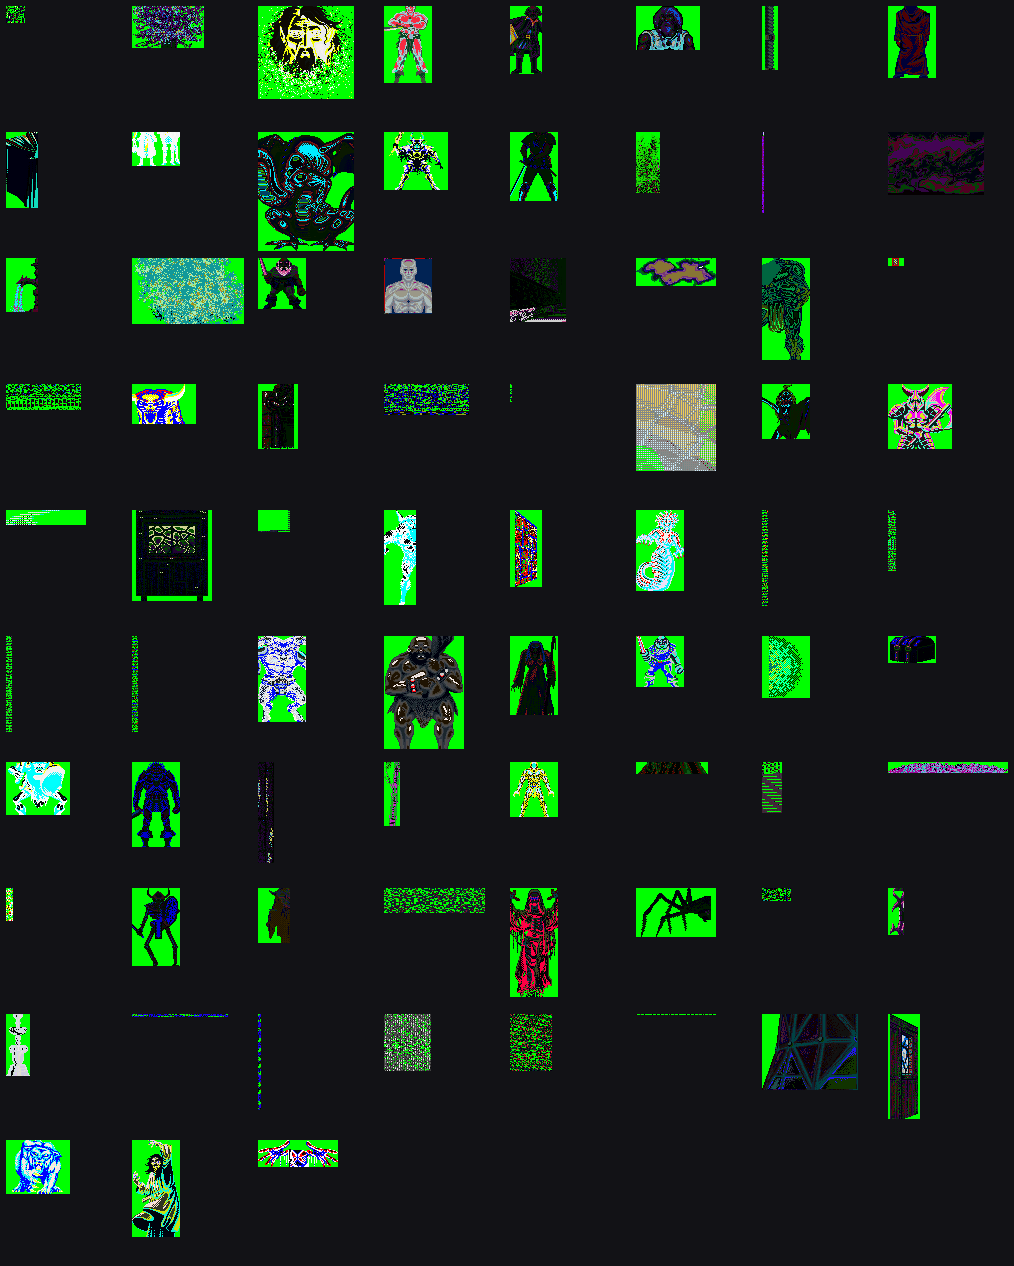
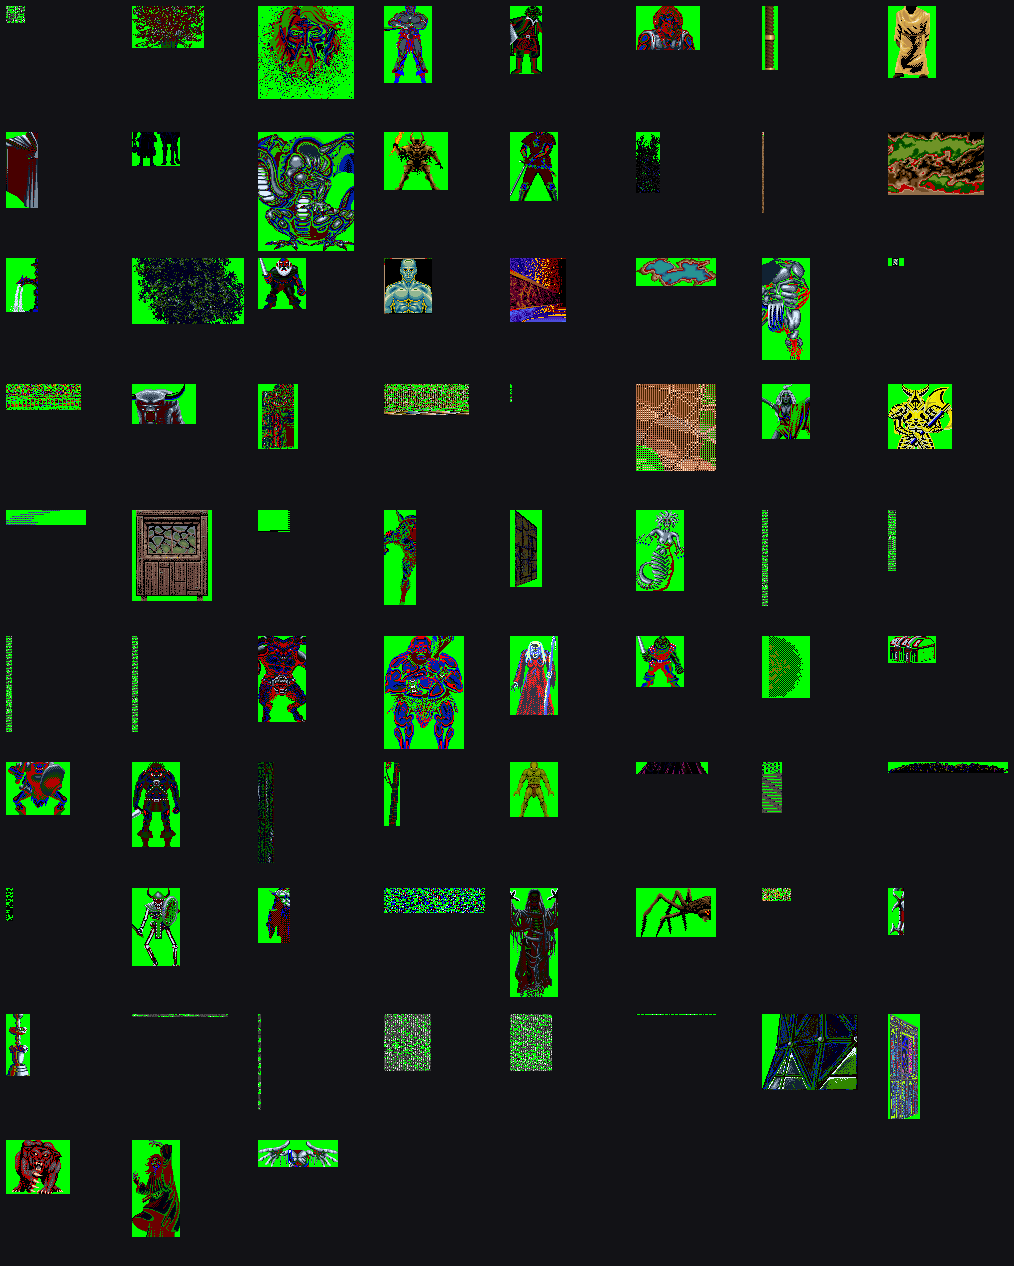
T11m: the DAC is 16 sub-palettes of 16, and word 0 selects the group
Dumped in-game, the palette has 227 non-zero entries laid out as 16 groups of
16, every group from 1 up starting white then black (group 0 starts black
because index 0 is transparent). So a 4bpp index resolves as

    vga_index = (word0 >> 8) * 16 + nibble

which explains header word 0, the last unexplained field: the values read live
were 0x0012, 0x0017, 0x0310, 0x070f, 0x0b00, 0x0c14, 0x0e10 -- a group index in
the high byte. Rendering everything as group 0 is what left the shapes right
and the colours wrong.

The 768-byte palette is in the asset, 8-bit RGB. Searching every decoded asset
for the in-game DAC gives exact hits: fond.io @ 12108 and geren.io @ 6684,
768/768 bytes each. The old detector had picked 204 for fond.io -- it scored
blocks by distinct-triple count, which a window of picture wins easily. It now
keys on the white/black group boundary, validated against three independently
established offsets.

Two encodings caused a detour: the game writes the DAC with a 6-bit >> 2, but
Spice86 reports it scaled back to 8 bits, so its values compare directly
against the file's bytes rather than shifted.

Not yet at the acceptance bar: the pixel-by-pixel framebuffer check found only
one weak hit (32/40 opaque pixels of a 16x4 sprite) because the game had
returned to the launcher and the blitter stopped firing. T11m stays [~].

- tools/ioscan.py        structural palette detector + group base
- tools/t11m-palette.py  nibble/framebuffer pairing (failed twice, kept)
[…]

diff --git a/tools/ioscan.py b/tools/ioscan.py
@@ -75,26 +75,62 @@ def extract(data):
     return walk(data, starts[0])
 
 
-def find_palette(data, taken):
-    """256 8-bit RGB triples (FORMATS.md 3.9), outside the sprite data."""
-    cand = None
-    for off in range(0, len(data) - 768, 2):
-        if data[off] or data[off + 1] or data[off + 2]:
+def palette_score(data, off):
+    """A VGA palette here is 16 sub-palettes of 16, and groups 1..15 each start
+    with white then black. That signature is what makes this a detector rather
+    than a guess: it was validated against three offsets established
+    independently -- fond.io 12108 and geren.io 6684 (both matched the live DAC
+    byte for byte while that scene was on screen) and logo.io 992 (FORMATS 3.9)."""
+    s = 0
+    for k in range(1, 16):
+        b = off + k * 48
+        if data[b] > 250 and data[b + 1] > 250 and data[b + 2] > 250:
+            s += 1
+        if data[b + 3] < 6 and data[b + 4] < 6 and data[b + 5] < 6:
+            s += 1
+    return s
+
+
+def find_palette(data, chain_end=0):
+    """Files carry more than one palette -- fond.io has a valid block at 556 and
+    another at 12108, and the live one was 12108. The one in use sits just past
+    the sprite chain, so prefer that and fall back to the best-scoring block."""
+    # The signature repeats every 48 bytes, so a block shifted by whole groups
+    # scores just as well -- fond.io came back 48 early and geren.io 144 early.
+    # Entry 0 of a real palette is black (index 0 is the transparent colour),
+    # while a shifted candidate starts on some group's white, which pins it.
+    cands = []
+    for off in range(0, len(data) - 768):
+        if data[off] > 8 or data[off + 1] > 8 or data[off + 2] > 8:
             continue
-        if any(off < e and s < off + 768 for s, e in taken):
-            continue
-        chunk = data[off:off + 768]
-        n = len({chunk[i:i + 3] for i in range(0, 768, 3)})
-        if cand is None or n > cand[0]:
-            cand = (n, off)
-    if not cand or cand[0] < 24:
-        return None
-    off = cand[1]
+        s = palette_score(data, off)
+        if s >= 24:
+            cands.append((off, s))
+    if not cands:
+        starts = [o for o in range(len(data) - 768)
+                  if data[o] < 8 and data[o + 1] < 8 and data[o + 2] < 8]
+        best = max(starts, key=lambda o: palette_score(data, o), default=None)
+        if best is None or palette_score(data, best) < 8:
+            return None
+        cands = [(best, palette_score(data, best))]
+    # Overlapping candidates 48 or 144 bytes early still satisfy the black-start
+    # rule (geren.io scored one at 6540 as well as the true 6684), and a shifted
+    # candidate is always the earlier one, so take the last.
+    after = [c for c in cands if c[0] >= chain_end]
+    off = (after or cands)[-1][0]
     c = data[off:off + 768]
     return off, [tuple(c[i:i + 3]) for i in range(0, 768, 3)]
 
 
 def render(data, off, w, h, pal):
+    """A 4bpp index is `group * 16 + nibble`. The DAC is 16 sub-palettes of 16
+    (measured in-game: every group starts white, black, then a ramp), and the
+    group is the high byte of header word 0 -- the values seen live were 0x0012,
+    0x0310, 0x0c14, 0x070f, 0x0b00, 0x0e10, which is a group index and a low byte.
+    Rendering with group 0 for everything is what left the shapes right and the
+    colours wrong."""
+    group = struct.unpack_from("<H", data, off)[0] >> 8
+    pbase = (group * 16) if group < 16 else 0
     stride = (w + 1) // 2
     base = off + 8
     rows = []
@@ -103,7 +139,7 @@ def render(data, off, w, h, pal):
         for x in range(w):
             b = data[base + y * stride + (x >> 1)]
             v = (b >> 4) if (x & 1) == 0 else (b & 15)
-            r.append((0, 255, 0) if v == 0 else pal[v])
+            r.append((0, 255, 0) if v == 0 else pal[pbase + v])
         rows.append(r)
     return rows
 
@@ -116,7 +152,8 @@ def do_file(path, outdir):
         return f"{name}: decode failed ({e})"
     sprites = extract(data)
     taken = [(o, o + 8 + ((w + 1) // 2) * h) for o, w, h in sprites]
-    found = find_palette(data, taken)
+    chain_end = taken[-1][1] if taken else 0
+    found = find_palette(data, chain_end)
     pal = found[1] if found else [(i * 16 % 256,) * 3 for i in range(256)]
     os.makedirs(outdir, exist_ok=True)
     for off, w, h in sprites:

diff --git a/tools/t11m-verify.py b/tools/t11m-verify.py
@@ -1,0 +1,70 @@
+#!/usr/bin/env python3
+"""
+T11m acceptance: does the static extraction reproduce the emulator's screen?
+
+Takes sprites extracted offline by tools/ioscan.py, maps each nibble through
+`group*16 + nibble` (group = high byte of header word 0), and looks for that
+exact run of palette indices in the live framebuffer. A hit means the extractor
+predicted the bytes the game put on screen -- not that the picture merely looks
+plausible.
+"""
+import json, os, struct, sys, importlib.util
+
+HERE = os.path.dirname(os.path.dirname(os.path.abspath(__file__)))
+sys.path.insert(0, os.path.join(HERE, "tools"))
+from rsp import Rsp
+
+spec = importlib.util.spec_from_file_location("ioscan", os.path.join(HERE, "tools", "ioscan.py"))
+ioscan = importlib.util.module_from_spec(spec)
+spec.loader.exec_module(ioscan)
+_ns = {}
+exec(open(os.path.join(HERE, "tools", "io.py")).read().split("def main()")[0], _ns)
+decode = _ns["decode"]
+
+GAME = os.path.join(HERE, "ishar_legend_of_the_fortress_DOSGamer.com")
+st = json.load(open(os.path.join(HERE, ".ish", "state.json")))
+g = Rsp(st["gdb"])
+vram = g.read_mem(0xA0000, 320 * 200)
+print(f"framebuffer: {len(vram)} bytes")
+
+for fname in sys.argv[1:] or ["fond.io"]:
+    data = decode(open(os.path.join(GAME, fname), "rb").read())[0]
+    sprites = ioscan.extract(data)
+    end = sprites[-1][0] + 8 + ((sprites[-1][1] + 1) // 2) * sprites[-1][2] if sprites else 0
+    pal = ioscan.find_palette(data, end)
+    print(f"\n{fname}: {len(sprites)} sprites, palette at {pal[0] if pal else None}")
+    for off, w, h in sprites:
+        group = struct.unpack_from("<H", data, off)[0] >> 8
+        base = group * 16 if group < 16 else 0
+        stride = (w + 1) // 2
+        # predicted index for every pixel of the sprite
+        rows = []
+        for y in range(h):
+            rows.append([((data[off + 8 + y * stride + (x >> 1)] >> 4) if (x & 1) == 0
+                          else (data[off + 8 + y * stride + (x >> 1)] & 15)) for x in range(w)])
+        bestscore, bestpos = 0, None
+        for sy in range(0, 200 - h + 1, 2):
+            for sx in range(0, 320 - w + 1, 2):
+                hit = tot = 0
+                for y in range(0, h, max(1, h // 12)):
+                    r = rows[y]
+                    vb = (sy + y) * 320 + sx
+                    for x in range(0, w, max(1, w // 12)):
+                        if r[x] == 0:
+                            continue
+                        tot += 1
+                        if vram[vb + x] == base + r[x]:
+                            hit += 1
+                if tot >= 8 and hit / tot > bestscore:
+                    bestscore, bestpos = hit / tot, (sx, sy)
+        if bestscore > 0.6 and bestpos:
+            sx, sy = bestpos
+            hit = tot = 0
+            for y in range(h):
+                for x in range(w):
+                    if rows[y][x] == 0:
+                        continue
+                    tot += 1
+                    hit += vram[(sy + y) * 320 + sx + x] == base + rows[y][x]
+            print(f"  {w}x{h} group {group:2d} at ({sx},{sy}): "
+                  f"{hit}/{tot} = {100*hit/tot:.1f}% of opaque pixels match the screen")

diff --git a/tools/t11m-palsrc.py b/tools/t11m-palsrc.py
@@ -1,0 +1,58 @@
+#!/usr/bin/env python3
+"""
+T11m: find where the 768 palette bytes are read from, by watching them go out.
+
+Searching the files for a captured DAC failed, which only means the copy in the
+file is not byte-identical to the copy in the DAC. So ask the machine instead:
+break where the game writes the DAC (seg_0e97:0d5f writes port 0x3c9), read the
+source pointer, dump the 768 bytes it is reading, and then find *those* bytes in
+the decoded assets. Whatever transformation sits in between stops mattering.
+"""
+import json, os, sys, time, urllib.request
+
+HERE = os.path.dirname(os.path.dirname(os.path.abspath(__file__)))
+sys.path.insert(0, os.path.join(HERE, "tools"))
+from rsp import Rsp
+
+BUDGET = int(sys.argv[1]) if len(sys.argv) > 1 else 45
+st = json.load(open(os.path.join(HERE, ".ish", "state.json")))
+
+
+def mcp(t, a=None):
+    b = json.dumps({"jsonrpc": "2.0", "id": 1, "method": "tools/call",
+                    "params": {"name": t, "arguments": a or {}}}).encode()
+    r = urllib.request.Request(f"http://127.0.0.1:{st['port']}/mcp", data=b, method="POST",
+                               headers={"Content-Type": "application/json",
+                                        "Accept": "application/json, text/event-stream"})
+    for ln in urllib.request.urlopen(r, timeout=60).read().decode().splitlines():
+        if ln.startswith("data:"):
+            return json.loads(ln[5:])["result"].get("structuredContent", {})
+
+
+load = mcp("read_dos_program_state")["CurrentProgramSegmentPrefix"] + 0x10
+g = Rsp(st["gdb"])
+entry = load * 16 + 0xe970 + 0xd5f          # seg_0e97:0d5f -- writes port 0x3c9
+mcp("clear_breakpoints")
+mcp("add_breakpoint", {"address": entry, "type": "CPU_EXECUTION_ADDRESS", "condition": None})
+print(f"DAC writer at {entry:#x}; {BUDGET}s", flush=True)
+
+out, t0 = [], time.time()
+while time.time() - t0 < BUDGET and len(out) < 3:
+    g.cont()
+    if g.wait_stop(timeout=max(1, BUDGET - (time.time() - t0))) is None:
+        break
+    r = g.registers()
+    if r["ip"] != entry:
+        continue
+    ds, si = r["ds"], r["si"] & 0xffff
+    src = ds * 16 + si
+    blob = g.read_mem(src, 768)
+    ret = int.from_bytes(g.read_mem(r["ss"] * 16 + (r["sp"] & 0xffff), 2), "little")
+    print(f"  DS:SI={ds:04x}:{si:04x} ({src:#07x})  CX={r['cx'] & 0xffff}  "
+          f"ret {ret:#06x}  first={blob[:12].hex()}", flush=True)
+    out.append({"src": src, "ds": ds, "si": si, "bytes": blob.hex()})
+
+mcp("clear_breakpoints")
+json.dump(out, open(os.path.join(HERE, ".ish", "palsrc.json"), "w"))
+print(f"{len(out)} captures -> .ish/palsrc.json")
+g.cont()

diff --git a/ROADMAP.md b/ROADMAP.md
@@ -282,25 +282,35 @@ Compose rewrite has to do.
       It cost a wrong turn during T11k.
       **Done when:** `ish dis 0e97:038b` prints the same instructions as the listing does.
 
-- [ ] **T11m · Why the colours are wrong on extracted sprites**
-      Shapes extract correctly (T11k); colours do not. Two candidate causes, and they are
-      not the same task:
-      (a) sprite indices 0..15 are offset or run through a 16-entry LUT into the 256-colour
-      DAC, or (b) `tools/ioscan.py` is simply picking the wrong 768-byte block as the file's
-      palette — its detector is a heuristic and would produce exactly this symptom.
-      *Tried and failed twice: `tools/t11m-palette.py` watches the blitter, then reads the
-      framebuffer at the next stop to pair each nibble with the byte that reached the screen.
-      Run 1 assumed a pitch of 320 and returned the background distribution for every nibble
-      -- the signature of sampling the wrong pixels. Run 2 read the pitch from `ss:[1dd5]`
-      and the clip rect from `ss:[0c2c..0c32]`; the sanity guard then rejected every frame,
-      so at least one of those offsets is not what it was read as. The destination is also
-      an offscreen buffer (`les di, ss:[1dbf]`), not necessarily 320x200.*
-      *Cheaper next: settle (b) first, statically. Capture the DAC while a known asset is on
-      screen and search that file for the same values shifted left by two -- exactly how
-      `logo.io`'s palette was found at 992 (3.9). If the block ioscan picked is not the block
-      that search finds, the bug is the detector and there is no LUT to look for.*
+- [~] **T11m · Why the colours are wrong on extracted sprites**
+      **Answered, not yet proven to the acceptance bar.** The DAC is 16 sub-palettes of 16
+      (FORMATS.md 3.9): 227 non-zero entries in-game, every group from 1 up starting white
+      then black. So `vga_index = (word0 >> 8) * 16 + nibble`, and header word 0 -- the last
+      unexplained field -- carries the group in its high byte. The full 768-byte palette is
+      in the asset, 8-bit RGB: the in-game DAC matched `fond.io @ 12108` and `geren.io @ 6684`
+      768/768 by exhaustive search. `tools/ioscan.py` now finds palettes by the white/black
+      group signature instead of the old heuristic, which had picked 204 for `fond.io`.
+      *Still open: the pixel-by-pixel confirmation the Done-when asks for. `tools/t11m-verify.py`
+      searches the framebuffer for `group*16 + nibble` and found only one weak hit (32/40 opaque
+      pixels of a 16x4 sprite) because the game had returned to the launcher and the blitter
+      stopped firing. Redo it standing in a scene: capture with `tools/t11m-sprites.py`, then
+      run the verifier immediately, before anything redraws.*
       **Done when:** `tools/ioscan.py` reproduces the emulator's framebuffer colours for one
       sprite it did not take the palette from, checked pixel by pixel.
+
+- [ ] **T11m2 · Which of a file's several palettes belongs to a sprite**
+      Assets carry more than one 768-byte palette: `fond.io` at 556 and 12108, `geren.io` at
+      6684 and 12268, `logo.io` at 992 and an identical copy at 20172. For `fond.io` the live
+      one sat just past the sprite chain; that rule picks the wrong block for `geren.io`.
+      Word 0's *low* byte (0x12, 0x17, 0x10, 0x0f, 0x14, 0x00) is unexplained and is the
+      obvious suspect.
+      **Done when:** for three files with multiple palettes, the rule picks the block that
+      matches the DAC captured while that file's art is on screen.
+
+- [ ] **T11m3 · `tools/ioscan.py` palette search is O(n) per byte**
+      The white/black signature is tested at every offset of every file, so a full extraction
+      no longer finishes inside ten minutes.
+      **Done when:** `tools/ioscan.py --all` completes in under 60s.
 
 - [ ] **T11n · The 8bpp path used by the title screen**
       `logo.io`'s sprite is 8bpp and does not go through `seg_0e97:038b`. Some other

diff --git a/FORMATS.md b/FORMATS.md
@@ -539,6 +539,41 @@ own palette inside the same compressed file.
 **Verified by:** an IO breakpoint on port `0x3c9` and a memory-write breakpoint on the
 staging buffer, both naming their writers; then the byte-for-byte shift check.
 
+#### The palette is 16 sub-palettes of 16 (T11m)
+
+Dumped in-game, the DAC has 227 non-zero entries laid out as **16 groups of 16**, and
+every group from 1 upward begins with white then black:
+
+```
+  0: 000 000 420 642 964 b96 b00 040 260 692 fb0 046 269 499 9b9 ddb
+ 16: fff 000 520 630 741 962 a73 c95 db7 230 340 460 670 880 990 ba0
+ 32: fff 000 643 754 865 976 a98 ca9 fc0 353 464 574 785 995 dcb 778
+ ...
+240: fff 000 000 000 ...                       (unused tail)
+```
+
+Group 0 is the exception -- it starts black, because index 0 is the transparent
+colour. That white/black boundary every 48 bytes is a strong enough signature to
+find a palette in a file without being told where it is, which is what
+`tools/ioscan.py` now does.
+
+**The whole 768-byte block is stored in the asset, 8-bit RGB.** Searching every
+decoded asset for the DAC as captured in-game gives exact hits:
+`fond.io @ 12108` and `geren.io @ 6684`, both **768/768 bytes**.
+
+**Files carry more than one palette.** `fond.io` has valid blocks at 556 and 12108,
+`geren.io` at 6540-ish, 6684 and 12268, `logo.io` at 992 and an identical copy at
+20172. The one in use for a given scene is *not* determined yet -- for `fond.io` the
+live one sat just past the end of the sprite chain, but that heuristic picks the
+wrong block for `geren.io`. See T11m2.
+
+Two encodings are in play and confusing them cost a session: the game writes the DAC
+with a 6-bit `>> 2`, but Spice86 reports the palette scaled back to 8 bits, so the
+values it returns compare **directly** against the file's bytes -- not shifted.
+
+**Verified by:** `.ish/game-palette.json` (in-game DAC) matched byte for byte against
+`fond.io` at 12108 and `geren.io` at 6684 by exhaustive search over all decoded assets.
+
 ### 3.10 Sprites are 4 bits per pixel, and they chain (T11k, T11l)
 
 **This is the piece that was missing, and it invalidates every "the decoder is broken"
@@ -587,9 +622,21 @@ blitter breakpoint; `captures/blit-sheet.png` renders them 8bpp (unreadable) and
 and the parchment art, all clean). `captures/assets-contact-sheet.png` is the static
 extraction over the whole game.
 
-**Still open:** which 16 of the 256 palette entries a sprite uses. Indices are 0..15 and
-the file carries a 256-entry palette (3.9), so there is a base or sub-palette per sprite;
-the contact sheet has correct shapes and wrong colours because of it.
+**How a 4bpp index becomes a colour (T11m).** The DAC is 16 sub-palettes of 16 (3.9), so
+
+```
+vga_index = group * 16 + nibble        group = header word 0 >> 8
+```
+
+Header word 0 was the last unexplained field, and its high byte is the group: the
+values read live were `0x0012, 0x0017, 0x0310, 0x070f, 0x0b00, 0x0c14, 0x0e10` --
+a group index in the high byte and a small low byte. Rendering everything as group 0
+is what left the shapes right and the colours wrong.
+
+**Status:** the mapping is established from the DAC's structure and word 0's shape,
+and it is *not yet* confirmed pixel-by-pixel against the framebuffer -- the one
+attempt matched 32/40 opaque pixels of a 16x4 sprite, which is not enough to call it.
+See T11m.
 
 
 ## 4. Video
